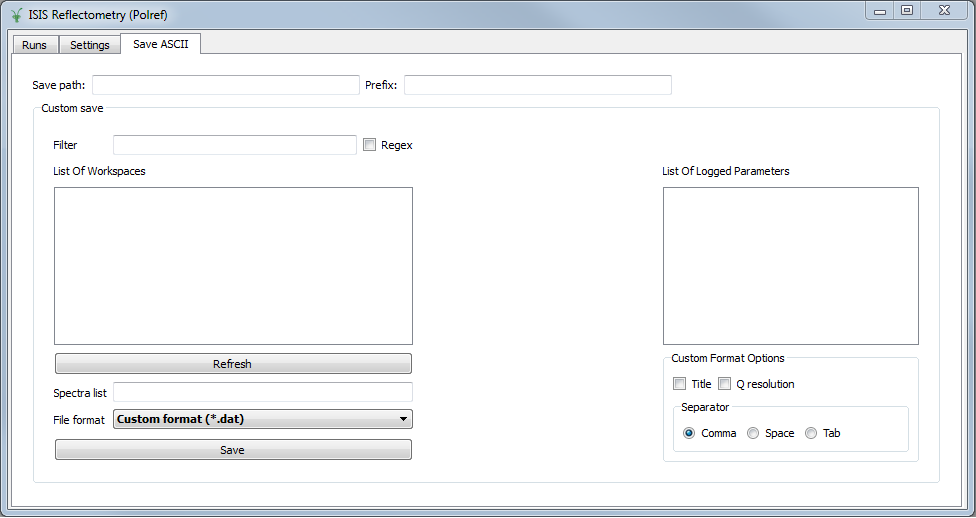
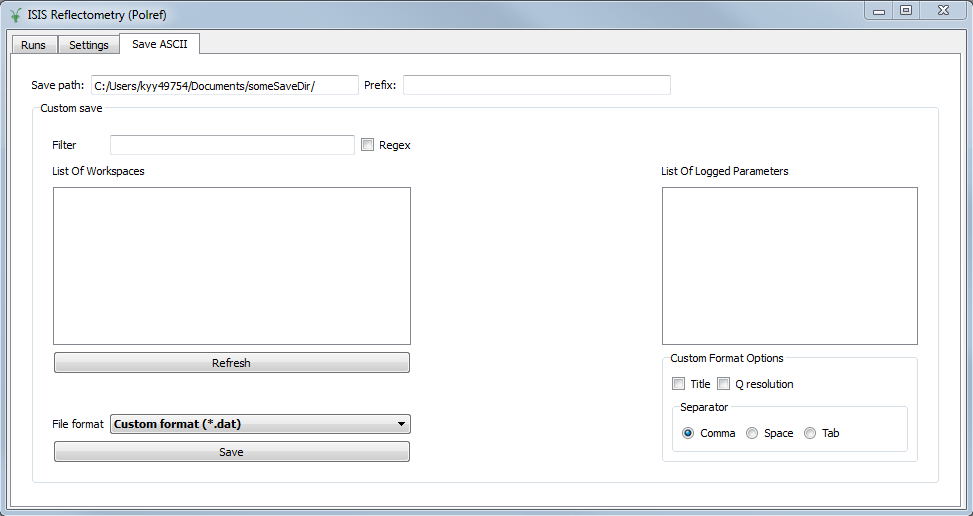
Re #17897 Added all suggestions

diff --git a/docs/source/algorithms/StartLiveData-v1.rst b/docs/source/algorithms/StartLiveData-v1.rst
@@ -1,0 +1,240 @@
+.. algorithm::
+
+.. summary::
+
+.. alias::
+
+.. properties::
+
+Description
+-----------
+
+The ``StartLiveData`` algorithm launches a background job that monitors and
+processes live data.
+
+The background algorithm started is :ref:`algm-MonitorLiveData`, which
+simply calls :ref:`algm-LoadLiveData` at a fixed interval.
+
+.. note::
+
+   For details on the way to specify the data processing steps, see
+   `LoadLiveData <LoadLiveData#Description>`__.
+
+Instructions for setting up a "fake" data stream are found `here
+<http://www.mantidproject.org/MBC_Live_Data_Simple_Examples>`__.
+
+Listener Properties
+###################
+
+Specific LiveListeners may provide their own properties, in addition to
+properties provided by StartLiveData. For convenience and accessibility, these
+properties are made available through StartLiveData as well.
+
+In the StartLiveData algorithm dialog, a group box called "Listener Properties"
+will appear at the bottom of the sidebar on the left, if the currently selected
+listener provides additional properties.
+
+In the Python API, these listener properties may also be set as keyword
+arguments when calling StartLiveData. For example, in this code snippet:
+
+.. code-block:: python
+
+    StartLiveData(Instrument='ISIS_Histogram', OutputWorkspace='wsOut', UpdateEvery=1,
+                  AccumulationMethod='Replace', PeriodList=[1,3], SpectraList=[2,4,6])
+
+PeriodList and SpectraList are properties of the ISISHistoDataListener. They
+are available as arguments in this call because Instrument is set to
+'ISIS_Histogram', which uses that listener.
+
+Live Plots
+##########
+
+Once live data monitoring has started, you can open a plot in
+MantidPlot. For example, you can right-click a workspace and choose
+"Plot Spectra".
+
+As the data is acquired, this plot updates automatically.
+
+Another way to start plots is to use `python MantidPlot
+commands <MantidPlot:_Help#Python_Scripting_in_MantidPlot>`__. The
+StartLiveData algorithm returns after the first chunk of data has been
+loaded and processed. This makes it simple to write a script that will
+open a live plot. For example:
+
+.. code-block:: python
+
+    StartLiveData(UpdateEvery='1.0',Instrument='FakeEventDataListener',
+      ProcessingAlgorithm='Rebin',ProcessingProperties='Params=10e3,1000,60e3;PreserveEvents=1',
+      OutputWorkspace='live')
+    plotSpectrum('live', [0,1])
+
+Run Transition Behavior
+#######################
+
+-  When the experimenter starts and stops a run, the Live Data Listener
+   receives this as a signal.
+-  The ``RunTransitionBehavior`` property specifies what to do at these
+   run transitions.
+
+   -  ``Restart``: the accumulated data (from the previous run if a run has
+      just ended or from the time between runs a if a run has just
+      started) is discarded as soon as the next chunk of data arrives.
+   -  ``Stop``: live data monitoring ends. It will have to be restarted
+      manually.
+   -  ``Rename``: the previous workspaces are renamed, and monitoring
+      continues with cleared ones. The run number, if found, is used to
+      rename the old workspaces.
+
+      -  There is a check for available memory before renaming; if there
+         is not enough memory, the old data is discarded.
+
+-  Note that LiveData continues monitoring even if outside of a run
+   (i.e. before a run begins you will still receive live data).
+
+Multiple Live Data Sessions
+###########################
+
+It is possible to have multiple live data sessions running at the same
+time. Simply call ``StartLiveData`` more than once, but make sure to specify
+unique names for the ``OutputWorkspace``.
+
+Please note that you may be limited in how much simultaneous processing
+you can do by your available memory and CPUs.
+
+Usage
+-----
+
+**Example 1:**
+
+.. testcode:: exStartLiveDataEvent
+
+    from threading import Thread
+    import time
+
+    def startFakeDAE():
+        # This will generate 2000 events roughly every 20ms, so about 50,000 events/sec
+        # They will be randomly shared across the 100 spectra
+        # and have a time of flight between 10,000 and 20,000
+        try:
+            FakeISISEventDAE(NPeriods=1,NSpectra=100,Rate=20,NEvents=1000)
+        except RuntimeError:
+            pass
+
+    def captureLive():
+        ConfigService.setFacility("TEST_LIVE")
+
+        # start a Live data listener updating every second, that rebins the data
+        # and replaces the results each time with those of the last second.
+        StartLiveData(Instrument='ISIS_Event', OutputWorkspace='wsOut', UpdateEvery=1,
+                      ProcessingAlgorithm='Rebin', ProcessingProperties='Params=10000,1000,20000;PreserveEvents=1',
+                      AccumulationMethod='Add', PreserveEvents=True)
+
+        # give it a couple of seconds before stopping it
+        time.sleep(2)
+
+        # This will cancel both algorithms
+        # you can do the same in the GUI
+        # by clicking on the details button on the bottom right
+        AlgorithmManager.newestInstanceOf("MonitorLiveData").cancel()
+        AlgorithmManager.newestInstanceOf("FakeISISEventDAE").cancel()
+    #--------------------------------------------------------------------------------------------------
+
+    oldFacility = ConfigService.getFacility().name()
+    thread = Thread(target = startFakeDAE)
+    thread.start()
+    time.sleep(2) # give it a small amount of time to get ready
+    if not thread.is_alive():
+        raise RuntimeError("Unable to start FakeDAE")
+
+    try:
+        captureLive()
+    except Exception, exc:
+        print "Error occurred starting live data"
+    finally:
+        thread.join() # this must get hit
+
+    # put back the facility
+    ConfigService.setFacility(oldFacility)
+
+    #get the ouput workspace
+    wsOut = mtd["wsOut"]
+    print "The workspace contains %i events" % wsOut.getNumberEvents()
+
+Output:
+
+.. testoutput:: exStartLiveDataEvent
+   :options: +ELLIPSIS, +NORMALIZE_WHITESPACE
+
+    The workspace contains ... events
+
+
+
+**Example 2:**
+
+.. testcode:: exStartLiveDataHisto
+
+    from threading import Thread
+    import time
+
+    def startFakeDAE():
+        # This will generate 5 periods of histogram data, 10 spectra in each period,
+        # 100 bins in each spectrum
+        try:
+            FakeISISHistoDAE(NPeriods=5,NSpectra=10,NBins=100)
+        except RuntimeError:
+            pass
+
+    def captureLive():
+        ConfigService.setFacility("TEST_LIVE")
+
+        # Start a Live data listener updating every second,
+        # that replaces the results each time with those of the last second.
+        # Load only spectra 2,4, and 6 from periods 1 and 3
+        StartLiveData(Instrument='ISIS_Histogram', OutputWorkspace='wsOut', UpdateEvery=1,
+                            AccumulationMethod='Replace', PeriodList=[1,3],SpectraList=[2,4,6])
+
+        # give it a couple of seconds before stopping it
+        time.sleep(2)
+
+        # This will cancel both algorithms
+        # you can do the same in the GUI
+        # by clicking on the details button on the bottom right
+        AlgorithmManager.newestInstanceOf("MonitorLiveData").cancel()
+        AlgorithmManager.newestInstanceOf("FakeISISHistoDAE").cancel()
+    #--------------------------------------------------------------------------------------------------
+
+    oldFacility = ConfigService.getFacility().name()
+    thread = Thread(target = startFakeDAE)
+    thread.start()
+    time.sleep(2) # give it a small amount of time to get ready
+    if not thread.is_alive():
+        raise RuntimeError("Unable to start FakeDAE")
+
+    try:
+        captureLive()
+    except Exception, exc:
+        print "Error occurred starting live data"
+    finally:
+        thread.join() # this must get hit
+
+    # put back the facility
+    ConfigService.setFacility(oldFacility)
+
+    #get the ouput workspace
+    wsOut = mtd["wsOut"]
+    print "The workspace contains %i periods" % wsOut.getNumberOfEntries()
+    print "Each period   contains %i spectra" % wsOut.getItem(0).getNumberHistograms()
+    time.sleep(1)
+
+Output:
+
+.. testoutput:: exStartLiveDataHisto
+   :options: +ELLIPSIS, +NORMALIZE_WHITESPACE
+
+    The workspace contains ... periods
+    Each period   contains ... spectra
+
+
+.. categories::
+
+.. sourcelink::

diff --git a/docs/source/interfaces/ISIS_Reflectometry.rst b/docs/source/interfaces/ISIS_Reflectometry.rst
@@ -53,7 +53,7 @@ dialog will open. Select ``INTER_NR_test2.tbl`` as the file, and enter ``MyTable
 as the output workspace.
 
 A table workspace called ``MyTable`` should now exist in the ADS (:ref:`Analysis Data Service <Analysis Data Service>`).
-In addition the table workspace should be opened as well and  The processing table
+In addition the table workspace should be opened as well and the processing table
 (shown below) should now contain four rows (13460, 13462, 13469, 13470).
 
 .. figure:: /images/ISISReflectometryPolref_INTER_table.PNG
@@ -360,9 +360,9 @@ Measure Based Search Transfer
 
 Measure based search transfer uses the log-values within nexus files from the experiment to assemble the batch. Since the files themselves are required, not just the overview metadata, the files must be accessible by mantid. One way of doing this is to mount the archive and set the user property ``icatDownload.mountPoint`` to your mount point. It may end up looking something like this ``icatDownload.mountPoint=/Volumes/inst$``. Alternately, you can download the files to your local disk and simply add that directory to the managed search directories in ``Manage User Directories``.
 
-- Any runs with the measurement_id log, will be
+- Any runs with the ``measurement_id`` log, will be
   placed into the same group.
-- Any runs with the ``same measurement_id`` and the same ``measurement_subid`` logs, will be merged into a single row, with all the runs listed in the **Run(s)** column in the format, ``123+124+125``.
+- Any runs with the same ``measurement_id`` and the same ``measurement_subid`` logs, will be merged into a single row, with all the runs listed in the **Run(s)** column in the format, ``123+124+125``.
 
 Failed transfers
 ================
@@ -460,11 +460,7 @@ ASCII formats. The filenames are saved in the form [Prefix][Workspace Name].[ext
 |                               | multi-select in order to allow for the save output   |
 |                               | to contain multiple parameter notes.                 |
 +-------------------------------+------------------------------------------------------+
-| Spectra list                  | Spectra list entry allows you to specify what        |
-|                               | spectra you want in the output file. If this is      |
-|                               | blank, all spectra are included.                     |
-+-------------------------------+------------------------------------------------------+
-| File format                   | This dialog can save to ANSTO, Ill cosmos, 3-column, |
+| File format                   | This dialog can save to ANSTO, ILL cosmos, 3-column, |
 |                               | and a customisable format. It doesn't save from      |
 |                               | the main interface's table, but from workspaces      |
 |                               | loaded into mantid. All algorithms are also          |
@@ -472,7 +468,7 @@ ASCII formats. The filenames are saved in the form [Prefix][Workspace Name].[ext
 +-------------------------------+------------------------------------------------------+
 | Custom Format Options         | When saving in 'Custom' this section allows you      |
 |                               | to specify if you want a Title and/or Q Resolution   |
-|                               | headings as well as specifying the delimiter.        |
+|                               | column as well as specifying the delimiter.          |
 +-------------------------------+------------------------------------------------------+
 
 .. _ISIS_Reflectomety-Options:
